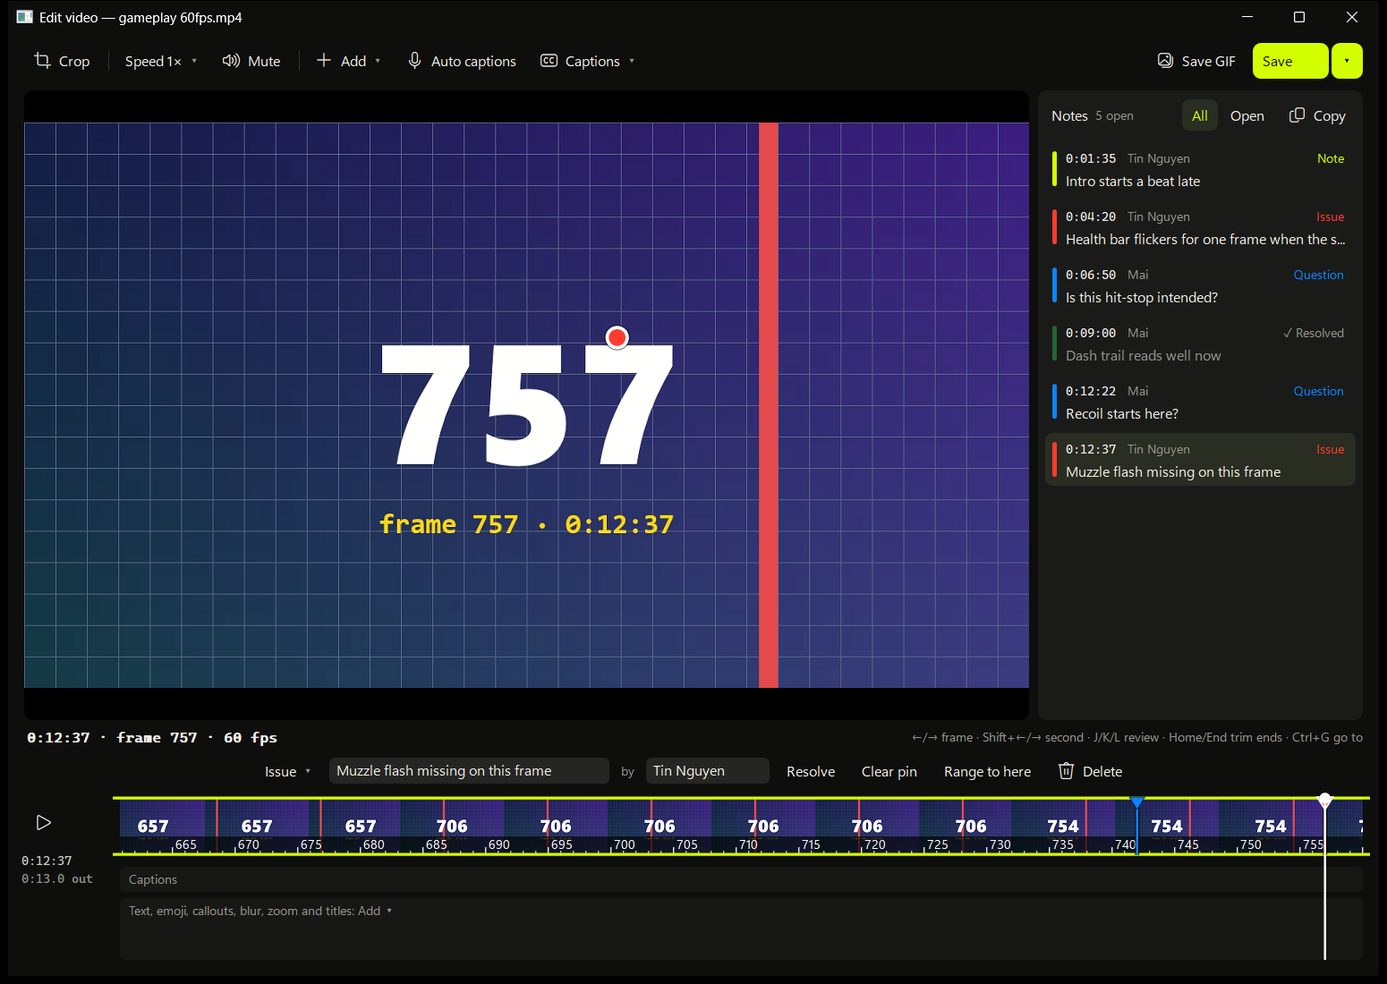
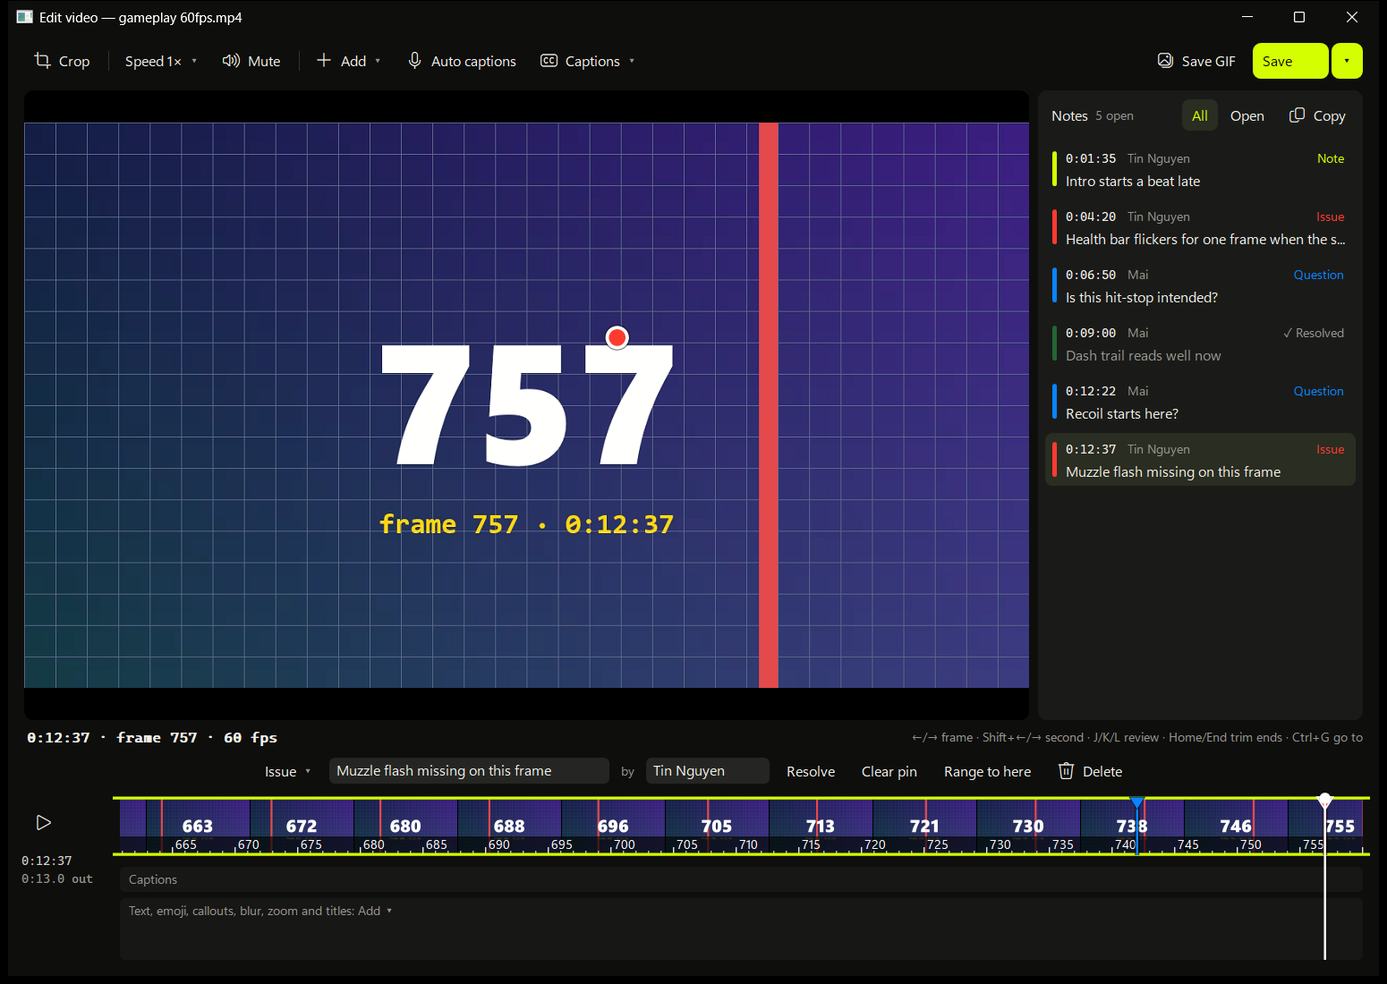
frame-review S13: zoomed filmstrip tiles show their own frames, decoded in the background (A9 rev 3, A13 image 3)

Changed region(s): [[0.0619, 0.8036, 0.991, 0.8655]]

diff --git a/src/videoeditor.cpp b/src/videoeditor.cpp
@@ -52,7 +52,7 @@ namespace gp = Gdiplus;
 constexpr wchar_t kClass[] = L"AtherScreenshotVideoEditor";
 constexpr wchar_t kIconFace[] = L"Segoe Fluent Icons";
 constexpr UINT WM_ENGINE = WM_APP + 40, WM_THUMBS = WM_APP + 41, WM_TRANSCRIBED = WM_APP + 42, WM_SAVED = WM_APP + 43, WM_FETCHED = WM_APP + 44,
-               WM_FRAMES = WM_APP + 45;
+               WM_FRAMES = WM_APP + 45, WM_STRIP = WM_APP + 46;
 enum : UINT_PTR { kTimerFrame = 1 };
 enum : int { kField1 = 200, kField2 };
 
@@ -335,6 +335,82 @@ private:
     std::thread worker_;
 };
 
+// The zoomed-in filmstrip's pictures: decodes the frames asked for (in timeline order, the newest request replacing the
+// rest) on a worker thread, scales each to `thumb` and posts it back as WM_STRIP. Reads on from one frame to the next,
+// so a view's worth of frames a few apart costs one seek.
+class StripFetcher {
+public:
+    struct Result {
+        uint64_t gen;
+        size_t frame;
+        BitmapPtr thumb;
+    };
+    StripFetcher(Sequence seq, TimelineFrames tf, SIZE thumb, HWND hwnd, uint64_t gen)
+        : seq_(std::move(seq)), tf_(std::move(tf)), thumb_(thumb), hwnd_(hwnd), gen_(gen), worker_([this] { Work(); }) {}
+    ~StripFetcher() {
+        {
+            std::lock_guard l(mu_);
+            quit_ = true;
+        }
+        cv_.notify_one();
+        worker_.join();
+    }
+    void Want(std::vector<size_t> frames) {  // these, in this order, instead of whatever was asked before
+        {
+            std::lock_guard l(mu_);
+            want_ = std::move(frames);
+        }
+        cv_.notify_one();
+    }
+
+private:
+    void Work() {
+        CoInitializeEx(nullptr, COINIT_MULTITHREADED);
+        SequenceReader r;
+        const bool ok = r.Open(seq_);
+        double lastT = -1e300;
+        for (;;) {
+            size_t n;
+            {
+                std::unique_lock l(mu_);
+                cv_.wait(l, [&] { return quit_ || !want_.empty(); });
+                if (quit_) break;
+                n = want_.front();
+                want_.erase(want_.begin());
+            }
+            if (!ok || n >= tf_.size()) continue;
+            const double t = tf_.frames[n].t;
+            if (!(t > lastT && t - lastT < 2.0)) r.Seek(t);  // reading on beats seeking for frames close ahead
+            VideoFrame f, kept;
+            double ft = 0;
+            while (!quit_ && r.ReadFrame(&f, &ft, t - 5e-4)) {  // frames before it come without pictures
+                kept = f;
+                lastT = ft;
+                if (ft >= t - 5e-4) break;
+            }
+            const BitmapPtr full = kept ? kept.Bgra() : nullptr;
+            if (!full) {
+                lastT = -1e300;
+                continue;
+            }
+            auto* res = new Result{gen_, n, Resample(*full, thumb_.cx, thumb_.cy)};
+            if (!res->thumb || !PostMessageW(hwnd_, WM_STRIP, 0, (LPARAM)res)) delete res;
+        }
+        CoUninitialize();
+    }
+
+    Sequence seq_;
+    TimelineFrames tf_;
+    SIZE thumb_;
+    HWND hwnd_;
+    uint64_t gen_;
+    std::mutex mu_;
+    std::condition_variable cv_;
+    std::vector<size_t> want_;
+    std::atomic<bool> quit_{false};
+    std::thread worker_;
+};
+
 // Results posted back from worker threads (one definition, shared by sender and receiver).
 struct TranscribeResult {
     bool ok = false;
@@ -552,7 +628,61 @@ public:
             }).detach();
         }
     }
+    // ---- the zoomed-in filmstrip ----
+    // Zoomed in, the strip is tiles at the thumbnails' own shape, each showing a frame from under it (the first frame
+    // starting in it), decoded in the background as the view changes; an empty tile until its picture comes.
+    std::unique_ptr<StripFetcher> stripFetcher;
+    uint64_t stripGen = 0;
+    std::map<size_t, BitmapPtr> stripThumbs;  // by timeline frame
+    std::vector<size_t> stripWanted;          // last asked for
+    struct StripTile {
+        double t0, t1;  // the timeline time it covers
+        size_t frame;   // the frame it shows
+    };
+    SIZE StripThumbSize() const {
+        const int h = S(52);
+        return {std::max(8, (int)std::lround(h * (double)videoSize.cx / std::max(1L, videoSize.cy))), h};
+    }
+    // The tiles on view at this zoom, on a grid from the timeline's start (so they stay put while panning).
+    std::vector<StripTile> StripTiles() const {
+        std::vector<StripTile> v;
+        if (tframes.empty() || tlZoom <= 1.001) return v;
+        const RECT tr = TimelineRect();
+        const double dt = StripThumbSize().cx * TlSpan() / std::max(1, RectW(tr));
+        const double end = std::min(duration, tlStart + TlSpan());
+        for (long long j = (long long)std::floor(tlStart / dt); j * dt < end; ++j) {
+            const double t0 = j * dt, t1 = std::min(duration, (j + 1) * dt);
+            const auto it = std::lower_bound(tframes.frames.begin(), tframes.frames.end(), t0 - 1e-9, [](const TimelineFrames::Frame& f, double x) { return f.t < x; });
+            const size_t n = it != tframes.frames.end() && it->t < t1 ? (size_t)(it - tframes.frames.begin()) : tframes.At(t0);
+            v.push_back({t0, t1, n});
+        }
+        return v;
+    }
+    void ResetStrip() {
+        stripFetcher.reset();
+        stripThumbs.clear();
+        stripWanted.clear();
+        ++stripGen;
+    }
+    // Asks for the pictures of the tiles on view that aren't there yet.
+    void RequestStrip(const std::vector<StripTile>& tiles) {
+        std::vector<size_t> want;
+        for (const auto& t : tiles)
+            if (!stripThumbs.count(t.frame) && std::find(want.begin(), want.end(), t.frame) == want.end()) want.push_back(t.frame);
+        if (want == stripWanted) return;
+        stripWanted = want;
+        if (want.empty() || !hwnd) return;
+        if (!stripFetcher) stripFetcher = std::make_unique<StripFetcher>(Seq(), tframes, StripThumbSize(), hwnd, stripGen);
+        stripFetcher->Want(want);
+    }
+    bool StripComplete() const {  // tests: every tile on view has its picture
+        for (const auto& t : StripTiles())
+            if (!stripThumbs.count(t.frame)) return false;
+        return true;
+    }
+
     void RebuildFrames() {
+        ResetStrip();
         tframes = TimelineFrames::Of(edit.clips, [this](const Clip& c) -> const std::vector<double>* {
             const auto it = frameTimes.find(FileKey(c.path));
             return it != frameTimes.end() && it->second && !it->second->empty() ? it->second.get() : nullptr;
@@ -2276,7 +2406,25 @@ public:
         HRGN viewRgn = CreateRectRgnIndirect(&view);
         SelectClipRgn(dc, viewRgn);
         g.SetClip(gp::Rect(view.left, view.top, RectW(view), RectH(view)));
-        if (!thumbs.empty()) {
+        if (const auto tiles = StripTiles(); !tiles.empty()) {  // zoomed in: tiles showing their own frames
+            HRGN clip = CreateRectRgn(strip.left, strip.top, strip.right, strip.bottom);
+            SelectClipRgn(dc, clip);
+            SetStretchBltMode(dc, HALFTONE);
+            for (const auto& tile : tiles) {
+                const int x0 = (int)std::lround(TX(tile.t0)), x1 = (int)std::lround(TX(tile.t1));
+                const auto it = stripThumbs.find(tile.frame);
+                if (it == stripThumbs.end() || !it->second) continue;  // still coming: the strip's own color meanwhile
+                MemDC src(it->second->Handle());
+                StretchBlt(dc, x0, strip.top, std::max(1, x1 - x0), RectH(strip), src, 0, 0, it->second->Width(), it->second->Height(), SRCCOPY);
+            }
+            for (const auto& tile : tiles) {  // a hairline between tiles
+                const int x = (int)std::lround(TX(tile.t0));
+                FillSolid(dc, {x, strip.top, x + 1, strip.bottom}, RGB(0, 0, 0));
+            }
+            SelectClipRgn(dc, nullptr);
+            DeleteObject(clip);
+            RequestStrip(tiles);
+        } else if (!thumbs.empty()) {
             const double D = std::max(0.001, duration);
             HRGN clip = CreateRectRgn(strip.left, strip.top, strip.right, strip.bottom);
             SelectClipRgn(dc, clip);
@@ -2289,15 +2437,8 @@ public:
                 const int dw = (int)std::ceil(img->Width() * k), dh = (int)std::ceil(img->Height() * k);
                 HRGN cr = CreateRectRgnIndirect(&cell);
                 ExtSelectClipRgn(dc, cr, RGN_AND);
-                MemDC src(img->Handle());
-                const int tw = (int)std::ceil(img->Width() * RectH(cell) / (double)img->Height());  // its own width at the strip's height
-                if (RectW(cell) > tw * 3 / 2) {  // zoomed in: side by side at their own shape, not stretched
-                    const int skip = cell.left < strip.left - tw ? (strip.left - tw - cell.left) / tw * tw : 0;  // off view on the left
-                    for (int x = cell.left + skip; x < std::min((int)cell.right, (int)strip.right); x += tw)
-                        StretchBlt(dc, x, cell.top, tw, RectH(cell), src, 0, 0, img->Width(), img->Height(), SRCCOPY);
-                } else {
-                    StretchBlt(dc, (cell.left + cell.right) / 2 - dw / 2, (cell.top + cell.bottom) / 2 - dh / 2, dw, dh, src, 0, 0, img->Width(), img->Height(), SRCCOPY);
-                }
+                MemDC src(img->Handle());  // fitted: each of the 16 shows the frame at its middle
+                StretchBlt(dc, (cell.left + cell.right) / 2 - dw / 2, (cell.top + cell.bottom) / 2 - dh / 2, dw, dh, src, 0, 0, img->Width(), img->Height(), SRCCOPY);
                 SelectClipRgn(dc, clip);
                 DeleteObject(cr);
             }
@@ -3366,6 +3507,19 @@ LRESULT VideoEditor::Proc(UINT m, WPARAM w, LPARAM l) {
             }
             return 0;
         }
+        case WM_STRIP: {
+            std::unique_ptr<StripFetcher::Result> r(reinterpret_cast<StripFetcher::Result*>(l));
+            if (r->gen != stripGen) return 0;  // for frames since rebuilt
+            stripThumbs[r->frame] = r->thumb;
+            if (stripThumbs.size() > 800) {  // keep the ones on view, drop the rest
+                std::map<size_t, BitmapPtr> keep;
+                for (const auto& t : StripTiles())
+                    if (auto it = stripThumbs.find(t.frame); it != stripThumbs.end()) keep.insert(*it);
+                stripThumbs = std::move(keep);
+            }
+            Invalidate();
+            return 0;
+        }
         case WM_FRAMES: {
             std::unique_ptr<FrameTimesResult> r(reinterpret_cast<FrameTimesResult*>(l));
             framesPending.erase(r->key);
@@ -3412,7 +3566,9 @@ LRESULT VideoEditor::Proc(UINT m, WPARAM w, LPARAM l) {
             thumbLatest->store(~0ull);  // stops a thumbnail job still running
             player.reset();
             fetcher.reset();
+            stripFetcher.reset();
             return 0;
+
         case WM_NCDESTROY: {  // after the children: they still need FieldProc to find this editor
             std::erase(g_editors, this);
             if (g_editors.empty()) ClearRenderCache();  // rendered titles and captions can be large
@@ -3833,7 +3989,9 @@ int VideoEditorSnapshots(const std::wstring& outDir) {
         e->tlStart = e->tframes.frames[757].t - e->TlSpan() * 0.6;
         e->ClampTimeline();
         e->RevealNote(*e->selected);
-        Pump(300);
+        Snapshot(e);  // asks for the strip's pictures
+        for (int i = 0; i < 300 && !e->StripComplete(); ++i) Pump(10);
+        Pump(100);
         SavePng(*Snapshot(e), outDir + L"\\video-editor-timeline-zoom.png");
         {  // the magnifier at 4× over the frame number's edge, the grid and the pin
             const gp::PointF at = e->ToView(VPoint{760, 300});
@@ -4582,6 +4740,65 @@ ATHER_TEST(video_editor_timeline_zoom) {
     CHECK_NEAR(e->tlZoom, 1, 1e-9);
     // Zooming never touches the edit.
     CHECK(e->edit.speed == 1 && !e->edit.crop);
+    e->dirty = false;
+    DestroyWindow(e->hwnd);
+}
+
+// Zoomed in, every filmstrip tile shows a frame from the frames it covers (the first one starting in it), read from the
+// painted strip itself, at several zooms and pans; the pictures come in the background, painting never waits for them.
+ATHER_TEST(video_editor_filmstrip_shows_frames_under_each_tile) {
+    const std::wstring dir = test::TempDir();
+    const std::wstring a = dir + L"\\a60.mp4";
+    CHECK(WriteNumberedClip(a, 320, 180, 60, 240, 0));  // 4 s
+    VideoEditor* e = OpenHidden(a, 1180, 760);
+    CHECK(e != nullptr);
+    if (!e) return;
+    for (int i = 0; i < 300 && !e->FramesKnown(); ++i) Pump(10);
+    const RECT tr = e->TimelineRect();
+    const int stripTop = tr.top + e->LaneH(), y = stripTop + e->S(22);  // under the flags, above the ruler
+    int tilesChecked = 0, wrong = 0, maxPaint = 0;
+    std::string first;
+    for (double zoom : {2.0, 5.0, 1000.0}) {
+        e->FitTrim();
+        e->GoToFrame(100);
+        e->ZoomTimeline(zoom);
+        for (double at : {0.0, 0.5, 1.0}) {  // panned to the start, the middle and the end
+            e->tlStart = at * std::max(0.0, e->duration - e->TlSpan());
+            e->ClampTimeline();
+            const ULONGLONG t0 = GetTickCount64();
+            Snapshot(e);  // asks for the tiles' pictures
+            maxPaint = std::max(maxPaint, (int)(GetTickCount64() - t0));
+            for (int i = 0; i < 300 && !e->StripComplete(); ++i) Pump(10);
+            CHECK(e->StripComplete());
+            const auto snap = Snapshot(e);
+            const double px = e->TX(e->Now());
+            for (const auto& tile : e->StripTiles()) {
+                const double xa = std::max(e->TX(tile.t0), (double)tr.left) + 3, xb = std::min(e->TX(tile.t1), (double)tr.right) - 3;
+                if (xb - xa < 4) continue;  // hardly on view
+                double x = (xa + xb) / 2;
+                if (std::fabs(x - px) < 4) x = x < px ? px - 5 : px + 5;  // not on the playhead's line
+                if (x < xa || x > xb) continue;
+                const int n = NumberOf(snap->Bits()[(size_t)y * snap->Width() + (int)x]);
+                const bool inside = n >= 0 && n < (int)e->tframes.size() && e->tframes.frames[(size_t)n].t >= tile.t0 - 1e-6 &&
+                                    (e->tframes.frames[(size_t)n].t < tile.t1 || tile.t1 - tile.t0 < 1 / 60.0);
+                if (!inside || n != (int)tile.frame) {
+                    if (!wrong)
+                        first = "zoom " + std::to_string(zoom) + " at " + std::to_string(at) + ": tile " + std::to_string(tile.t0) + "–" + std::to_string(tile.t1) +
+                                " shows frame " + std::to_string(n) + " (wanted " + std::to_string(tile.frame) + ")";
+                    ++wrong;
+                }
+                ++tilesChecked;
+            }
+        }
+    }
+    test::Note(std::to_string(tilesChecked) + " tiles, " + std::to_string(wrong) + " wrong; " + first + "; slowest paint " + std::to_string(maxPaint) + " ms");
+    CHECK(tilesChecked >= 60);
+    CHECK_EQ(wrong, 0);
+    CHECK(maxPaint < 250);  // painting never waits for pictures
+    // At full zoom each tile covers whole frames of its own: about 6 at 14 px a frame.
+    e->ZoomTimeline(1000);
+    const auto tiles = e->StripTiles();
+    CHECK(!tiles.empty() && (tiles[0].t1 - tiles[0].t0) * 60 > 3 && (tiles[0].t1 - tiles[0].t0) * 60 < 12);
     e->dirty = false;
     DestroyWindow(e->hwnd);
 }

diff --git a/docs/intent/frame-review/progress.md b/docs/intent/frame-review/progress.md
@@ -1,9 +1,9 @@
 # Frame Review: Progress
 
-- Working under rev: 2
+- Working under rev: 3
 - Worker: `frame-review-worker`
-- Current step: none: every row is met except A13 and A8, whose proof is `review` (the orchestrator's verdict).
-- Next step: the orchestrator reviews A13's images and A8's docs (and F-1); the owner merges. Afterwards, the Mac handoff (a Non-Goal here).
+- Current step: none: every row is met except A13, which waits for the orchestrator's re-review of the redone image 3.
+- Next step: the orchestrator re-reviews `proof/a13/a13-3-timeline-zoomed.png`; the owner merges. Afterwards, the Mac handoff (a Non-Goal here).
 - PR: https://github.com/AskTinNguyen/AtherScreenshot/pull/2
 
 ## Acceptance
@@ -17,12 +17,12 @@
 | A5 | met | S6: `test.bat` → `92 tests, 1227 checks, 0 failed` with `video_editor_notes_kept_next_to_the_video` (round trip, joined, trimmed, undo, damaged, made-and-emptied) and `video_notes_sidecar_format` |
 | A6 | met | S9: `test.bat` → `96 tests, 1448 checks, 0 failed` with `video_review_export_holds_notes_with_cards_and_burn_in` and `video_editor_saves_review_video_notes_list_and_sheet`; snapshot `docs/intent/frame-review/proof/a6-note-card-frame.png` (opened, checked); S10 bench: plain exports' frames identical to the pre-feature build in all 6 scenarios, and no slower |
 | A7 | met | S9: `test.bat` → `96 tests, 1448 checks, 0 failed` with `video_editor_saves_review_video_notes_list_and_sheet` (the `.md` text and Copy's text both equal the expected lines) |
-| A9 | met | S7; S9 gate `96 tests, 1448 checks, 0 failed` with `video_editor_timeline_zoom`; snapshot `docs/intent/frame-review/proof/a9-timeline-zoom.png` (opened, checked) |
+| A9 | met | S7, and S13 for rev 3's filmstrip: `test.bat` → `97 tests, 1463 checks, 0 failed` with `video_editor_timeline_zoom` and `video_editor_filmstrip_shows_frames_under_each_tile`; snapshot `docs/intent/frame-review/proof/a9-timeline-zoom.png` (redone in S13: thumbnails 705…771 over their ticks; opened, checked) |
 | A10 | met | S8; S9 gate `96 tests, 1448 checks, 0 failed` with `video_editor_pixel_magnifier`; snapshot `docs/intent/frame-review/proof/a10-magnifier-4x.png` (opened, checked) |
 | A11 | met | S5 (kinds, Resolved, Open filter, colored ticks and list), S6 (sidecar), S9 (card, `.md`, sheet, summary); gate `96 tests, 1448 checks, 0 failed`; snapshot `docs/intent/frame-review/proof/a4-a11-notes.png` (all four kinds and a resolved note), plus the S9 images |
 | A12 | met | S9: gate `96 tests, 1448 checks, 0 failed` with the review export test (180 summary-card frames equal `SummaryCard`, length 10.5 s, sheet tiles in order matching the decoded review video within 6/255); snapshots `docs/intent/frame-review/proof/a12-summary-card.png`, `a12-contact-sheet.png` (opened, checked) |
-| A13 | ready for review | S11: seven images in `docs/intent/frame-review/proof/a13/` (list in S11), each opened and checked; waits for the orchestrator's verdict in `log.md` |
-| A8 | ready for review | S12: README (Features row, Video editor guide: frame by frame, review notes, review video; the editor's shortcut line; Platform differences) and RELEASE_NOTES ("Coming in the next update (Windows)"); final gate `96 tests, 1448 checks, 0 failed` |
+| A13 | ready for re-review | R-1 (log.md): images 1, 2, 4, 5, 6, 7 pass; image 3 failed (stale filmstrip). S13: `proof/a13/a13-3-timeline-zoomed.png` redone (thumbnails 663, 672, 680 … 755, each the first frame at its tile's left edge, agreeing with the ticks under them; opened, checked), and image 4, which also shows the zoomed strip, redone the same way. Waits for the orchestrator's re-review of image 3 |
+| A8 | met | review R-1 in log.md (passes). S12: README (Features row, Video editor guide: frame by frame, review notes, review video; the editor's shortcut line; Platform differences) and RELEASE_NOTES ("Coming in the next update (Windows)"); final gate `96 tests, 1448 checks, 0 failed` |
 
 ## Steps
 
@@ -54,11 +54,13 @@ Engineering decisions (S2):
   - `proof/a13/a13-7-contact-sheet.png`: six tiles in timeline order, each showing its own frame number (95, 260, 410, 540, 742, 757), kinds in color, the resolved one dimmed.
   Fixed on the way (found in these images): zoomed-in thumbnails were stretched to the whole cell (now tiled at their own shape); the last ruler number was cut at the right edge (now drawn whole or not at all); the first capture attempts were scaled by Windows (the script now sets per-thread DPI awareness and leaves the window on its monitor). Evidence: the script re-run into a fresh folder produced the same four window images (same sizes); `video_editor` tests → pass (see the S12 gate). Acceptance: A13 ready for the orchestrator's review.
 - S12 (rev 2, 2026-10-10): docs (A8). README: a "Review video" row in Features; in the Video editor guide, "Frame by frame" (exact steps, Shift, Home/End, the readout, Ctrl+G, J/K/L and preview speeds, timeline zoom, the magnifier), "Review notes" (M, kinds, Resolved, pin, range, flags and list, [ and ], the author name, the sidecar, Copy) and "Review video" (Save ▾ › Save review video, Ctrl+Alt+S, what's in it, the notes list and contact sheet); the editor's shortcut line now lists Home/End, J/K/L, Ctrl+G, M, [ ], timeline zoom, the magnifier, the save shortcuts and Ctrl+Alt+S winning over scrolling capture in the editor; Platform differences says frame review is Windows only for now. RELEASE_NOTES: a "Coming in the next update (Windows)" section above build 0.0.2.2 (no build number: that's the owner's call at release). Evidence: final full `test.bat` → `96 tests, 1448 checks, 0 failed`, exit 0, at this commit's code (the S11 code; S12 changed docs only). Acceptance: A8 ready for review.
+- S13 (rev 3, 2026-10-10): the zoomed-in filmstrip shows frames from under each tile (rev 3's A9, from review R-1). Zoomed in, the strip is now tiles at the thumbnails' own shape on a grid from the timeline's start (so they stay put while panning); each tile shows the first frame that starts inside it (the frame on screen at its start when a tile is narrower than a frame). The pictures come from a background `StripFetcher` (its own reader; the tiles on view asked for in timeline order, reading on from one to the next; the newest view's request replaces older ones; scaled to the tile and posted back), kept by frame (up to 800, dropping the ones off view); a tile waits as empty strip until its picture comes, so painting never blocks and a wrong picture is never shown. At 1× the 16 fitted thumbnails stay as before (each is the frame at its cell's middle). Evidence: new `video_editor_filmstrip_shows_frames_under_each_tile`: at zooms 2×, 5× and full, panned to the start, middle and end, it reads the frame number from the painted strip at each tile's middle and checks it is the tile's own frame and lies inside the tile's span (more than 60 tiles, 0 wrong); paints with pictures still coming take under 250 ms; at full zoom a tile covers 3–12 frames → `1 tests, 15 checks, 0 failed`; full `test.bat` → `97 tests, 1463 checks, 0 failed`, exit 0. Pictures redone with the committed capture script and `--video-snapshots`, opened and checked: `proof/a13/a13-3-timeline-zoomed.png` (663, 672, 680, 688, 696, 705, 713, 721, 730, 738, 746, 755 over ticks 665…755; e.g. the "680" tile starts just left of tick 680), `proof/a13/a13-4-magnifier-4x.png` (same strip under the 4× view), `proof/a9-timeline-zoom.png` (705…771 over their ticks). Acceptance: A9 met (rev 3); A13 ready for re-review of image 3; A8 met by R-1.
 
 ## Reconciliations
 
 <!-- rev <old> -> <new>: still valid <...>; redo <...>; dropped <...>. -->
 
+- rev 2 -> 3 (2026-10-10, prompt commit 16c419f, review R-1 in log.md): still valid: A1–A7, A10–A12 (met), A8 (passed review R-1: now met), F-1 (accepted as built: D13). Redo: A9's filmstrip (rev 3 adds: thumbnails show frames from under each tile at every zoom, refreshed in the background; a gate test for it) and A13 image 3 (and image 4, which shows the same strip). Dropped: none.
 - rev 1 -> 2 (2026-10-10, prompt commit 8c794a3): still valid: A1 (met, S2) and the S3 work in progress on A2 (D1–D3 unchanged, accepted). Redo: none. Dropped: none. Added: D7 (owner-level calls made and recorded here), D8 (dev tools allowed, recorded), D9–D12 and rows A9–A13. A2/A4/A6/A9–A12 now also need a snapshot PNG opened and checked; note kinds and resolved status (D11) are designed into notes from the start of A4. Order from here: A2, A3, A4, A11, A5, A9, A10, A6, A12, A7, A13, A8.
 
 ## Owner-level calls
@@ -76,7 +78,7 @@ Engineering decisions (S2):
 - Save menu (S9): a small ▾ next to Save opens Save video / Save GIF / Save review video, since there was no Save menu; Save GIF keeps its button.
 - Ctrl+Alt+S (S9): it's also the app's global "Scrolling capture" hotkey, so the global hotkey now hands it to the video editor when an editor is the window in front (F-1). Weighed: another key for the review video (D2 named this one), or leaving scrolling capture to win (the shortcut would never work in the editor).
 - Notes list text (S9): one line per note in A7's format with the kind in brackets after the author (D11 wants kind and status in the list), and a blank line between notes in both the file and the clipboard, so Markdown shows them as separate lines.
-- Zoomed thumbnails (S11): side by side at their own shape once a cell is 1.5 thumbnails wide, as video editors do, instead of one stretched picture.
+- Zoomed thumbnails (S11, replaced in S13): S11 tiled the 16 coarse thumbnails, which R-1 rightly found stale. S13: each tile decodes its own frame in the background; until it comes the tile is empty strip (rather than a stand-in picture from elsewhere, which would look like the wrong frame).
 - Go to (S3): the inspector's text field turns into a "Go to" field rather than a dialog box, the way captions and markup are edited in this editor. A time without a frame part (12.6) lands on the frame on screen at that time.
 
 ## Dev tools
